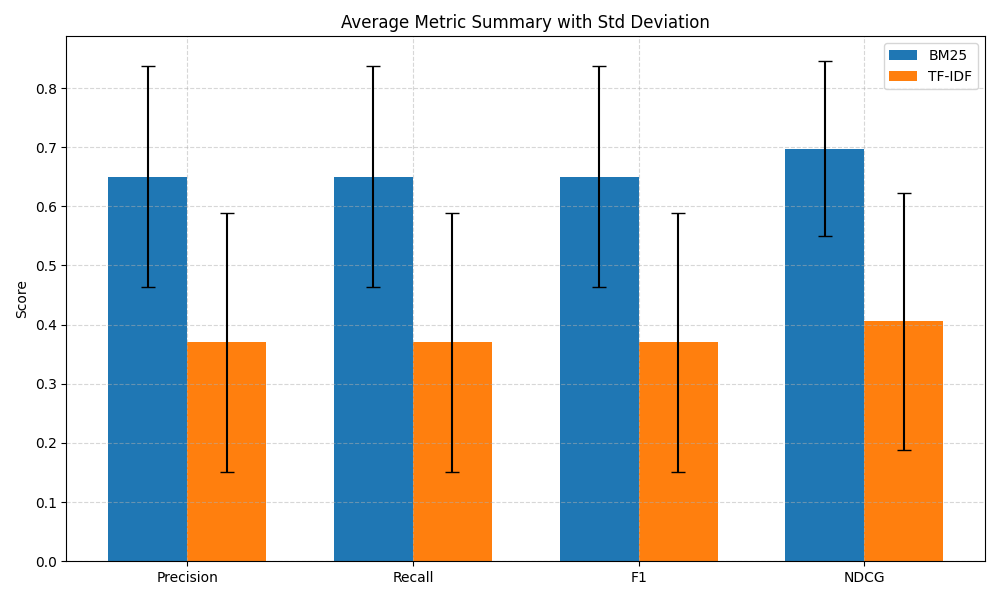
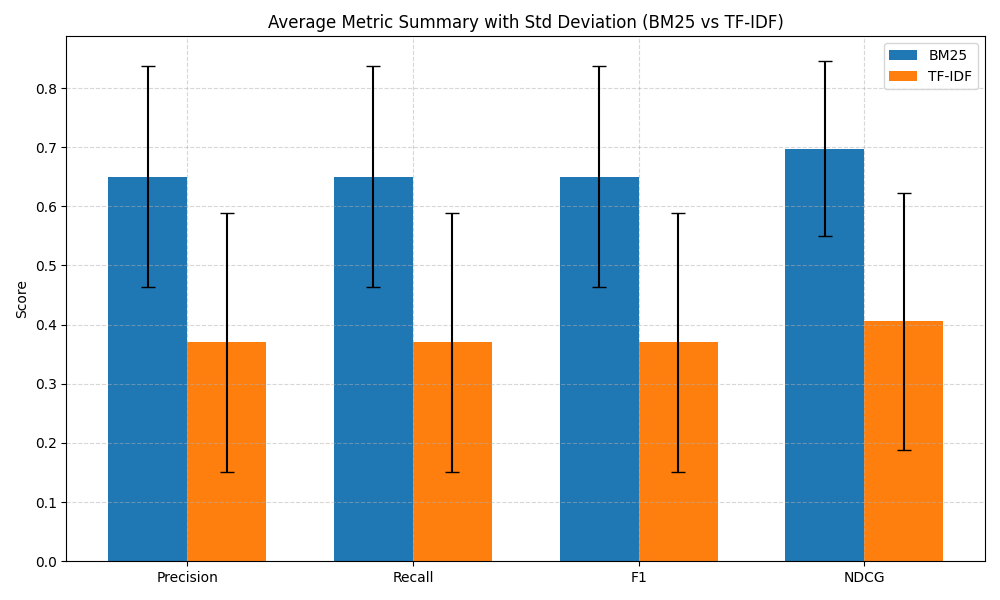
requirements

Changed region(s): [[0.248, 0.0, 0.775, 0.06]]

diff --git a/pylucene/bench_plotting.py b/pylucene/bench_plotting.py
@@ -10,27 +10,23 @@ def compute_avg_and_std(curves):
     return avg, std
 
 # Funzione per plottare la precisione ai livelli di recall con varianza (std)
-def plot_precision_recall_with_variance(avg_curves, output_path):
+def plot_precision_recall_with_variance(avg_curves, output_path, model1="BM25", model2="TF-IDF"):
     recall_levels = [i / 10 for i in range(11)]
 
-    bm25_avg, bm25_std = compute_avg_and_std(avg_curves["BM25"])
-    tfidf_avg, tfidf_std = compute_avg_and_std(avg_curves["TF-IDF"])
+    avg1, std1 = compute_avg_and_std(avg_curves[model1])
+    avg2, std2 = compute_avg_and_std(avg_curves[model2])
 
     plt.figure(figsize=(8, 6))
 
-    # BM25
-    plt.plot(recall_levels, bm25_avg, marker='o', label="BM25", color="blue")
-    plt.fill_between(recall_levels, bm25_avg - bm25_std, bm25_avg + bm25_std,
-                     alpha=0.2, color="blue", label="BM25 ±1 std")
+    plt.plot(recall_levels, avg1, marker='o', label=model1, color="blue")
+    plt.fill_between(recall_levels, avg1 - std1, avg1 + std1, alpha=0.2, color="blue", label=f"{model1} ±1 std")
 
-    # TF-IDF
-    plt.plot(recall_levels, tfidf_avg, marker='x', label="TF-IDF", color="green")
-    plt.fill_between(recall_levels, tfidf_avg - tfidf_std, tfidf_avg + tfidf_std,
-                     alpha=0.2, color="green", label="TF-IDF ±1 std")
+    plt.plot(recall_levels, avg2, marker='x', label=model2, color="green")
+    plt.fill_between(recall_levels, avg2 - std2, avg2 + std2, alpha=0.2, color="green", label=f"{model2} ±1 std")
 
     plt.xlabel("Recall medio")
     plt.ylabel("Precision media")
-    plt.title("Curve Precision-Recall medie con varianza (BM25 vs TF-IDF)")
+    plt.title(f"Curve Precision-Recall medie con varianza ({model1} vs {model2})")
     plt.grid(True)
     plt.legend()
     plt.tight_layout()
@@ -38,34 +34,30 @@ def plot_precision_recall_with_variance(avg_curves, output_path):
     os.makedirs(os.path.dirname(output_path), exist_ok=True)
     plt.savefig(output_path)
     plt.close()
-
     print(f"✅ Grafico con varianza salvato in: {output_path}")
 
 
-
-def plot_per_query_precision_recall(avg_curves, output_path):
+def plot_per_query_precision_recall(avg_curves, output_path, model1="BM25", model2="TF-IDF"):
     recall_levels = [i / 10 for i in range(11)]
-
-    num_queries = len(avg_curves["BM25"])
+    num_queries = len(avg_curves[model1])
     rows, cols = 5, 3
 
     fig, axes = plt.subplots(rows, cols, figsize=(15, 10), sharex=True, sharey=True)
-    fig.suptitle("Precision-Recall Interpolated per Query (BM25 vs TF-IDF)", fontsize=16)
+    fig.suptitle(f"Precision-Recall Interpolated per Query ({model1} vs {model2})", fontsize=16)
 
     for idx in range(num_queries):
         row = idx // cols
         col = idx % cols
         ax = axes[row, col]
 
-        ax.plot(recall_levels, avg_curves["BM25"][idx], label="BM25", color="blue", marker="o", linewidth=1)
-        ax.plot(recall_levels, avg_curves["TF-IDF"][idx], label="TF-IDF", color="green", marker="x", linewidth=1)
+        ax.plot(recall_levels, avg_curves[model1][idx], label=model1, color="blue", marker="o", linewidth=1)
+        ax.plot(recall_levels, avg_curves[model2][idx], label=model2, color="green", marker="x", linewidth=1)
 
         ax.set_title(f"Query {idx+1}", fontsize=8)
         ax.grid(True)
         ax.set_xlim([0, 1])
         ax.set_ylim([0, 1])
 
-    # Rimuove gli assi vuoti se ci fossero
     for idx in range(num_queries, rows * cols):
         fig.delaxes(axes[idx // cols, idx % cols])
 
@@ -76,26 +68,25 @@ def plot_per_query_precision_recall(avg_curves, output_path):
     os.makedirs(os.path.dirname(output_path), exist_ok=True)
     plt.savefig(output_path)
     plt.close()
-
     print(f"✅ Subplot per-query salvato in: {output_path}")
 
 
 
 # PLotting della media delle precisione per query
-def plot_querywise_precision_bar_chart(precision_dict, output_path):
+def plot_querywise_precision_bar_chart(precision_dict, output_path, model1="BM25", model2="TF-IDF"):
     os.makedirs(os.path.dirname(output_path), exist_ok=True)
 
-    num_queries = len(precision_dict["BM25"])
+    num_queries = len(precision_dict[model1])
     query_indices = np.arange(1, num_queries + 1)
 
     width = 0.35  # larghezza delle barre
     fig, ax = plt.subplots(figsize=(12, 6))
 
-    bm25_precisions = precision_dict["BM25"]
-    tfidf_precisions = precision_dict["TF-IDF"]
+    bm25_precisions = precision_dict[model1]
+    tfidf_precisions = precision_dict[model2]
 
-    ax.bar(query_indices - width/2, bm25_precisions, width, label='BM25', color='skyblue')
-    ax.bar(query_indices + width/2, tfidf_precisions, width, label='TF-IDF', color='lightgreen')
+    ax.bar(query_indices - width/2, bm25_precisions, width, label=model1, color='skyblue')
+    ax.bar(query_indices + width/2, tfidf_precisions, width, label=model2, color='lightgreen')
 
     ax.set_xlabel('Query ID')
     ax.set_ylabel('Precisione')
@@ -113,20 +104,20 @@ def plot_querywise_precision_bar_chart(precision_dict, output_path):
 
 
 # Analogo ma per le recall
-def plot_querywise_recall_bar_chart(recall_dict, output_path):
+def plot_querywise_recall_bar_chart(recall_dict, output_path, model1="BM25", model2="TF-IDF"):
     os.makedirs(os.path.dirname(output_path), exist_ok=True)
 
-    num_queries = len(recall_dict["BM25"])
+    num_queries = len(recall_dict[model1])
     query_indices = np.arange(1, num_queries + 1)
 
     width = 0.35  # larghezza delle barre
     fig, ax = plt.subplots(figsize=(12, 6))
 
-    bm25_recalls = recall_dict["BM25"]
-    tfidf_recalls = recall_dict["TF-IDF"]
+    bm25_recalls = recall_dict[model1]
+    tfidf_recalls = recall_dict[model2]
 
-    ax.bar(query_indices - width/2, bm25_recalls, width, label='BM25', color='coral')
-    ax.bar(query_indices + width/2, tfidf_recalls, width, label='TF-IDF', color='gold')
+    ax.bar(query_indices - width/2, bm25_recalls, width, label=model1, color='coral')
+    ax.bar(query_indices + width/2, tfidf_recalls, width, label=model2, color='gold')
 
     ax.set_xlabel('Query ID')
     ax.set_ylabel('Recall')
@@ -145,20 +136,20 @@ def plot_querywise_recall_bar_chart(recall_dict, output_path):
 
 
 # Funzione per plottare la NDCG (in modo analogo alla recall e precision)
-def plot_querywise_ndcg_bar_chart(ndcg_dict, output_path):
+def plot_querywise_ndcg_bar_chart(ndcg_dict, output_path, model1="BM25", model2="TF-IDF"):
     os.makedirs(os.path.dirname(output_path), exist_ok=True)
 
-    num_queries = len(ndcg_dict["BM25"])
+    num_queries = len(ndcg_dict[model1])
     query_indices = np.arange(1, num_queries + 1)
 
     width = 0.35  # larghezza delle barre
     fig, ax = plt.subplots(figsize=(12, 6))
 
-    bm25_ndcg = ndcg_dict["BM25"]
-    tfidf_ndcg = ndcg_dict["TF-IDF"]
+    bm25_ndcg = ndcg_dict[model1]
+    tfidf_ndcg = ndcg_dict[model2]
 
-    ax.bar(query_indices - width/2, bm25_ndcg, width, label='BM25', color='mediumslateblue')
-    ax.bar(query_indices + width/2, tfidf_ndcg, width, label='TF-IDF', color='mediumseagreen')
+    ax.bar(query_indices - width/2, bm25_ndcg, width, label=model1, color='mediumslateblue')
+    ax.bar(query_indices + width/2, tfidf_ndcg, width, label=model2, color='mediumseagreen')
 
     ax.set_xlabel('Query ID')
     ax.set_ylabel('NDCG')
@@ -175,13 +166,13 @@ def plot_querywise_ndcg_bar_chart(ndcg_dict, output_path):
 
 
 # Plot della R@ precision con grafico a barra singola!
-def plot_querywise_rprecision_bar_chart(r_precision_dict, output_path):
+def plot_querywise_rprecision_bar_chart(r_precision_dict, output_path, model1="BM25", model2="TF-IDF"):
     os.makedirs(os.path.dirname(output_path), exist_ok=True)
-    n = len(r_precision_dict["BM25"])
+    n = len(r_precision_dict[model1])
     x = np.arange(1, n + 1)
 
-    bm25_values = np.array(r_precision_dict["BM25"])
-    tfidf_values = np.array(r_precision_dict["TF-IDF"])
+    bm25_values = np.array(r_precision_dict[model1])
+    tfidf_values = np.array(r_precision_dict[model2])
     
     # Differenza (positiva = BM25 meglio, negativa = TF-IDF meglio)
     diff = bm25_values - tfidf_values
@@ -195,7 +186,7 @@ def plot_querywise_rprecision_bar_chart(r_precision_dict, output_path):
     plt.xticks(x)
     plt.xlabel("Query ID")
     plt.ylabel("Δ R@3 (BM25 - TF-IDF)")
-    plt.title("Differenza di R@3 per Query (verde=BM25 vince, rosso=TF-IDF vince)")
+    plt.title(f"Differenza di R@3 per Query (verde={model1} vince, rosso={model2} vince)")
     plt.tight_layout()
     plt.savefig(output_path)
     plt.close()
@@ -205,38 +196,38 @@ def plot_querywise_rprecision_bar_chart(r_precision_dict, output_path):
 
 
 # Plotting delle Medie e deviazioni Aggregate, passiamo tutti i dizionari completi
-def plot_final_metric_summary_barplot(precision_dict, recall_dict, f1_dict, ndcg_dict, save_path):
+def plot_final_metric_summary_barplot(precision_dict, recall_dict, f1_dict, ndcg_dict, save_path, model1="BM25", model2="TF-IDF"):
     metrics = ['Precision', 'Recall', 'F1', 'NDCG']
-    models = ['BM25', 'TF-IDF']
+    models = [model1, model2]
     
     # Calcolo medie e deviazioni standard per ciascun modello e metrica
     averages = {
-        "BM25": [
-            np.mean(precision_dict["BM25"]),
-            np.mean(recall_dict["BM25"]),
-            np.mean(f1_dict["BM25"]),
-            np.mean(ndcg_dict["BM25"]),
+        model1: [
+            np.mean(precision_dict[model1]),
+            np.mean(recall_dict[model1]),
+            np.mean(f1_dict[model1]),
+            np.mean(ndcg_dict[model1]),
         ],
-        "TF-IDF": [
-            np.mean(precision_dict["TF-IDF"]),
-            np.mean(recall_dict["TF-IDF"]),
-            np.mean(f1_dict["TF-IDF"]),
-            np.mean(ndcg_dict["TF-IDF"]),
+        model2: [
+            np.mean(precision_dict[model2]),
+            np.mean(recall_dict[model2]),
+            np.mean(f1_dict[model2]),
+            np.mean(ndcg_dict[model2]),
         ]
     }
 
     std_devs = {
-        "BM25": [
-            np.std(precision_dict["BM25"]),
-            np.std(recall_dict["BM25"]),
-            np.std(f1_dict["BM25"]),
-            np.std(ndcg_dict["BM25"]),
+        model1: [
+            np.std(precision_dict[model1]),
+            np.std(recall_dict[model1]),
+            np.std(f1_dict[model1]),
+            np.std(ndcg_dict[model1]),
         ],
-        "TF-IDF": [
-            np.std(precision_dict["TF-IDF"]),
-            np.std(recall_dict["TF-IDF"]),
-            np.std(f1_dict["TF-IDF"]),
-            np.std(ndcg_dict["TF-IDF"]),
+        model2: [
+            np.std(precision_dict[model2]),
+            np.std(recall_dict[model2]),
+            np.std(f1_dict[model2]),
+            np.std(ndcg_dict[model2]),
         ]
     }
 
@@ -245,20 +236,20 @@ def plot_final_metric_summary_barplot(precision_dict, recall_dict, f1_dict, ndcg
     width = 0.35
 
     fig, ax = plt.subplots(figsize=(10, 6))
-    rects1 = ax.bar(x - width/2, averages["BM25"], width, label='BM25', yerr=std_devs["BM25"], capsize=5)
-    rects2 = ax.bar(x + width/2, averages["TF-IDF"], width, label='TF-IDF', yerr=std_devs["TF-IDF"], capsize=5)
+    ax.bar(x - width/2, averages[model1], width, label=model1, yerr=std_devs[model1], capsize=5)
+    ax.bar(x + width/2, averages[model2], width, label=model2, yerr=std_devs[model2], capsize=5)
 
     # Etichette e stile
     ax.set_ylabel('Score')
-    ax.set_title('Average Metric Summary with Std Deviation')
+    ax.set_title(f'Average Metric Summary with Std Deviation ({model1} vs {model2})')
     ax.set_xticks(x)
     ax.set_xticklabels(metrics)
     ax.legend()
     ax.grid(True, linestyle='--', alpha=0.5)
 
     fig.tight_layout()
+    os.makedirs(os.path.dirname(save_path), exist_ok=True)
     plt.savefig(save_path)
     plt.close()
-    print(f"✅Grafico Medie Aggregate + errore std salvato in: {save_path}")
-
+    print(f"✅ Grafico Medie Aggregate + errore std salvato in: {save_path}")
 

diff --git a/pylucene/README.md b/pylucene/README.md
@@ -1,0 +1,62 @@
+# Progetto PyLucene / Elasticsearch - Documentazione
+
+## 📦 Requisiti
+
+Installare le dipendenze:
+pip install -r requirements.txt
+
+Per l'uso di elasticsearch, scaricare da https://www.elastic.co/downloads/elasticsearch, unzippare la cartella e,
+    da terminale, digitare da dentro la cartella: ./bin/elasticsearch
+L'uso di elasticsearch è essere usato come goldenstandard. 
+
+🏗 Script e funzionalità
+
+make_II.py:
+    Crea gli indici:
+        Locali (PyLucene) con StandardAnalyzer, Lemmatizzatore.
+        Elasticsearch, se attivo.
+
+manualQuery.py
+
+    Permette di eseguire query in modo interattivo:
+        L’utente inserisce i campi desiderati.
+        Le metriche vengono stampate a terminale.
+        Viene generato il grafico precision_curve.png che mostra la precisione ai vari livelli di recall per:
+            TF-IDF (standard analyzer)
+            BM25 (standard analyzer)
+            TF-IDF con stemming
+            TF-IDF con lemmatizzazione
+
+benchmark.py
+
+    Esegue test sulle 15 query UIN:
+        Genera grafici in pylucene/grafici/
+        Mostra:
+            Precision, Recall, F1, NDCG, R-Precision per ogni query
+            Medie e deviazioni standard aggregate
+            Grafici comparativi tra TF-IDF e BM25 con standard analyzer
+
+std_vs_lemma.py
+    Confronta:
+        TF-IDF con StandardAnalyzer
+        TF-IDF con Lemmatizzazione
+        Valuta metriche individuali e precision@recall.
+
+bench_plotting.py
+    Contiene le funzioni per generare i grafici usati negli script di benchmark.
+
+utils.py
+    Funzioni ausiliarie:
+        Calcolo metriche (precision, recall, f1, ndcg, ecc.)
+        Normalizzazione query e supporto ai test
+
+dataset-constr.py
+    Costruisce il dataset di partenza da cui vengono creati gli indici e i golden standard.
+
+📂 Output
+    I grafici vengono salvati in pylucene/grafici/
+    I risultati intermedi possono essere stampati a terminale o salvati su file se specificato nei singoli script.
+
+🔧 Note
+    Gli script sono modulari e riutilizzabili.
+    Per testare tutto da zero: eseguire prima make_II.py, poi benchmark.py o manualQuery.py a seconda del tipo di analisi.

diff --git a/postgresql/README.md b/postgresql/README.md
@@ -1,0 +1,37 @@
+# Istruzioni per l'Uso del Progetto
+
+## ✅ Requisiti
+
+Installare tutte le dipendenze con:
+    pip install -r requirements.txt
+
+Assicurarsi di aver installato e correttamente configurato:
+    PyLucene (in locale, vedi riga -e /.../jcc nel requirements.txt)
+    PostgreSQL con tabella films già indicizzata via to_tsvector
+
+🔍 File Principali
+
+benchmark_SQL.py
+    Esegue benchmarking tra i due sistemi di ricerca su PostgreSQL:
+        VSM-like: basato su ts_rank
+        BM25-like: basato su ts_rank_cd
+    Per ciascuna query, vengono calcolate:
+        precision, recall, f1-score, ndcg
+        grafici salvati automaticamente (usando bench_plotting.py)
+
+utils.py
+    Contiene funzioni di supporto:
+        calcolo metriche (compute_precision, recall, f1, ndcg, etc.)
+        gestione dei golden standard
+        stampa dei risultati
+
+bench_plotting.py
+    Genera grafici:
+        precision ai vari livelli di recall
+        istogrammi comparativi (VSM vs BM25)
+        r-precision, ndcg, medie aggregate, ecc.
+
+📌 Note Finali
+    Le query usate sono 15 e salvate in un dizionario all’interno del main script.
+    Per funzionare correttamente, serve un database PostgreSQL popolato e configurato.
+    Le metriche vengono salvate sia su console che in forma grafica nella cartella specificata.
